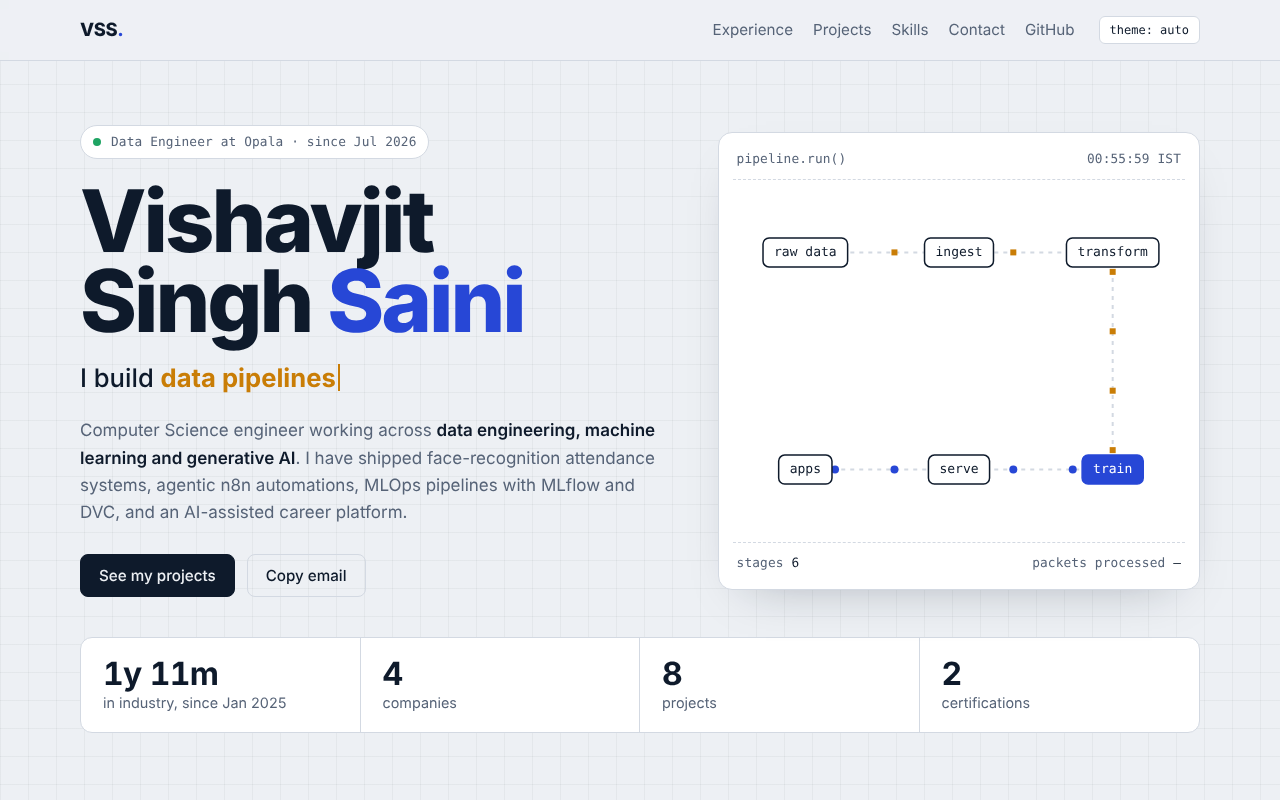
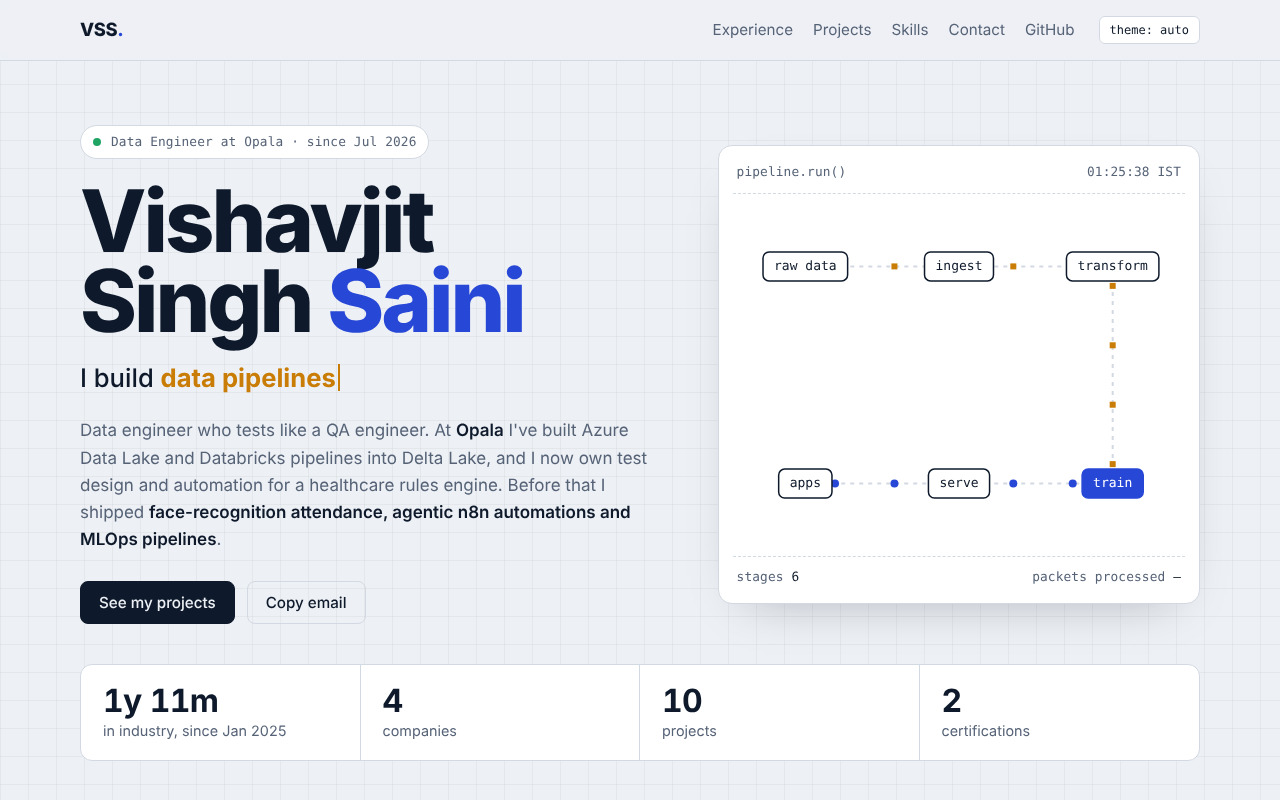
Add Opala work: Azure lakehouse pipelines and Rules Engine (CRD) QA
- Experience entries for Azure Data Lake/Databricks engineering and rules-engine test design and automation
- Two Opala project cards; new Azure & big data and testing skill groups
- Refreshed README screenshots

diff --git a/index.html b/index.html
@@ -4,7 +4,7 @@
 <meta charset="utf-8">
 <meta name="viewport" content="width=device-width, initial-scale=1">
 <title>Vishavjit Singh Saini</title>
-<meta name="description" content="Vishavjit Singh Saini, Data Engineer at Opala. Machine learning, computer vision, MLOps and agentic automation.">
+<meta name="description" content="Vishavjit Singh Saini, Data Engineer at Opala. Azure and Databricks data pipelines, API test automation, machine learning and computer vision.">
 <link rel="preconnect" href="https://fonts.googleapis.com">
 <link rel="preconnect" href="https://fonts.gstatic.com" crossorigin>
 <link href="https://fonts.googleapis.com/css2?family=Bricolage+Grotesque:opsz,wdth,wght@12..96,75..100,400..800&family=IBM+Plex+Sans:wght@400;500;600&family=JetBrains+Mono:wght@400;500&display=swap" rel="stylesheet">
@@ -271,7 +271,7 @@ footer { padding: 28px 0 40px; color: var(--muted); display: flex; justify-conte
       <span class="status mono"><span class="dot" aria-hidden="true"></span>Data Engineer at Opala · since Jul 2026</span>
       <h1>Vishavjit<br>Singh <span class="last">Saini</span></h1>
       <p class="typed" aria-live="polite">I build <b id="typed">data pipelines</b><span class="caret" aria-hidden="true"></span></p>
-      <p class="lede">Computer Science engineer working across <strong>data engineering, machine learning and generative AI</strong>. I have shipped face-recognition attendance systems, agentic n8n automations, MLOps pipelines with MLflow and DVC, and an AI-assisted career platform.</p>
+      <p class="lede">Data engineer who tests like a QA engineer. At <strong>Opala</strong> I've built Azure Data Lake and Databricks pipelines into Delta Lake, and I now own test design and automation for a healthcare rules engine. Before that I shipped <strong>face-recognition attendance, agentic n8n automations and MLOps pipelines</strong>.</p>
       <div class="actions">
         <a class="btn" href="#projects">See my projects</a>
         <button class="btn ghost" type="button" id="heroCopy">Copy email</button>
@@ -302,6 +302,39 @@ footer { padding: 28px 0 40px; color: var(--muted); display: flex; justify-conte
         <div class="body">
           <h3>Opala <span class="pill">current</span></h3>
           <div class="meta">Data Engineer</div>
+
+          <div class="job">
+            <h4>Rules Engine QA: Coverage Requirements Discovery (CRD) workflow</h4>
+            <p>Owns test design and automation for the rules engine behind the CRD workflow, working against real deployed Azure environments rather than mocks.</p>
+            <details>
+              <summary>responsibilities</summary>
+              <ul>
+                <li>Wrote the full test plan from scratch: scope, environments, test-data strategy, entry and exit criteria, risk register and coverage matrix.</li>
+                <li>Catalogued 77 test cases across positive, negative, edge, fallback and functional tiers. Where specs were silent or out of date, I grounded cases in the source code.</li>
+                <li>Ran black-box testing against VPN-gated environments with signed JWT authentication and tenant-scoped requests.</li>
+                <li>Built a pytest regression suite parameterised by environment, with a shared HTTP client covering every endpoint in scope.</li>
+                <li>Found and fixed two security defects in product code, verified against the full backend test suite with no regressions.</li>
+                <li>Traced a reference-data quality issue to its source extract, quantified the impact and raised it as a tracked engineering decision.</li>
+                <li>Built the Jira/Xray structure: test plan, test issues, per-environment executions, and a mapping from automated test IDs to Jira keys for result import.</li>
+              </ul>
+              <div class="meta2 mono">pytest · JWT · Jira/Xray · Azure Container Apps · Key Vault · Docker Compose · GitHub Actions (OIDC)</div>
+            </details>
+          </div>
+
+          <div class="job">
+            <h4>Azure data engineering: Data Lake and Databricks</h4>
+            <p>Built ingestion pipelines into Azure Data Lake Storage through raw/bronze, curated/silver and consumption/gold layers, with Databricks processing into Delta Lake.</p>
+            <details>
+              <summary>responsibilities</summary>
+              <ul>
+                <li>Landed raw data in ADLS with validation gates before each layer moved downstream.</li>
+                <li>Cleaned, transformed and joined data in Databricks notebooks (PySpark and SQL), writing versioned Delta Lake tables.</li>
+                <li>Ran data-quality checks for schema conformance, nulls and duplicates, and referential integrity against source.</li>
+                <li>Handled sensitive data under least-privilege access, with column-level treatment of sensitive fields and audit-conscious processing.</li>
+              </ul>
+              <div class="meta2 mono">Azure Data Lake Storage · Databricks · PySpark · SQL · Delta Lake</div>
+            </details>
+          </div>
         </div>
       </article>
 
@@ -515,7 +548,7 @@ footer { padding: 28px 0 40px; color: var(--muted); display: flex; justify-conte
   tick(); setInterval(tick, 1000);
 
   /* ---------- typed roles ---------- */
-  var phrases = ["data pipelines", "ML systems that ship", "computer vision models", "agentic automations", "MLOps workflows"];
+  var phrases = ["data pipelines", "Delta lakehouses", "test suites that catch real bugs", "ML systems that ship", "computer vision models", "agentic automations", "MLOps workflows"];
   var typed = document.getElementById("typed");
   if (!reduce) {
     var pi = 0, ci = phrases[0].length, deleting = true, wait = 1800;
@@ -536,6 +569,12 @@ footer { padding: 28px 0 40px; color: var(--muted); display: flex; justify-conte
 
   /* ---------- projects & skills ---------- */
   var projects = [
+    { title: "Rules Engine Test Suite (CRD)", org: "Opala", when: "2026", areas: ["QA & Testing"],
+      blurb: "Test plan, 77 cases across five tiers, and a pytest regression suite run against deployed Azure environments with JWT, tenant-scoped requests.",
+      stack: ["Python", "pytest", "JWT", "Jira/Xray", "Azure", "Docker Compose", "GitHub Actions"] },
+    { title: "Azure Lakehouse Pipelines", org: "Opala", when: "2026", areas: ["Data Engineering"],
+      blurb: "Bronze, silver and gold layers on Azure Data Lake, with Databricks PySpark and SQL into Delta Lake, behind data-quality gates and governed sensitive-data handling.",
+      stack: ["Azure Data Lake", "Databricks", "PySpark", "SQL", "Delta Lake"] },
     { title: "AI-Powered Employee Attendance System", org: "WE RNS IT Solutions", when: "2026", areas: ["Computer Vision"],
       blurb: "Real-time face recognition on a smart biometric device, with attendance synced to a central backend over REST.",
       stack: ["Python", "OpenCV", "InsightFace", "FaceNet", "ONNX Runtime", "NumPy", "Pandas", "FastAPI", "Flask", "MySQL", "SQLite", "Git", "Linux"] },
@@ -569,7 +608,9 @@ footer { padding: 28px 0 40px; color: var(--muted); display: flex; justify-conte
     { name: "machine learning & ai", items: ["TensorFlow", "PyTorch", "Scikit-learn", "Neural Networks", "Computer Vision", "NLP", "OpenCV", "OpenAI APIs"] },
     { name: "data & mlops", items: ["Pandas", "NumPy", "MLflow", "DVC", "Matplotlib", "Seaborn", "AWS", "Docker"] },
     { name: "backend & automation", items: ["FastAPI", "Flask", "n8n", "Webhooks", "Redis"] },
-    { name: "databases", items: ["MySQL", "PostgreSQL", "MariaDB", "SQLite", "NoSQL"] }
+    { name: "azure & big data", items: ["Azure Data Lake", "Databricks", "PySpark", "Delta Lake", "Azure"] },
+    { name: "testing & qa", items: ["pytest", "JWT", "Jira/Xray", "Docker Compose", "GitHub Actions"] },
+    { name: "databases", items: ["MySQL", "PostgreSQL", "MariaDB", "SQLite", "NoSQL", "SQL"] }
   ];
   document.getElementById("projCount").textContent = projects.length;
   var areas = ["All"];

diff --git a/README.md b/README.md
@@ -1,6 +1,6 @@
 # Vishavjit Singh Saini · Portfolio
 
-Personal portfolio site for **Vishavjit Singh Saini**, Data Engineer at Opala. It covers machine learning, computer vision, MLOps and agentic automation work.
+Personal portfolio site for **Vishavjit Singh Saini**, Data Engineer at Opala. It covers Azure and Databricks data engineering, API test automation, machine learning, computer vision and agentic automation.
 
 **Live site:** https://vishavjit-singh.github.io/portfolio/
 
